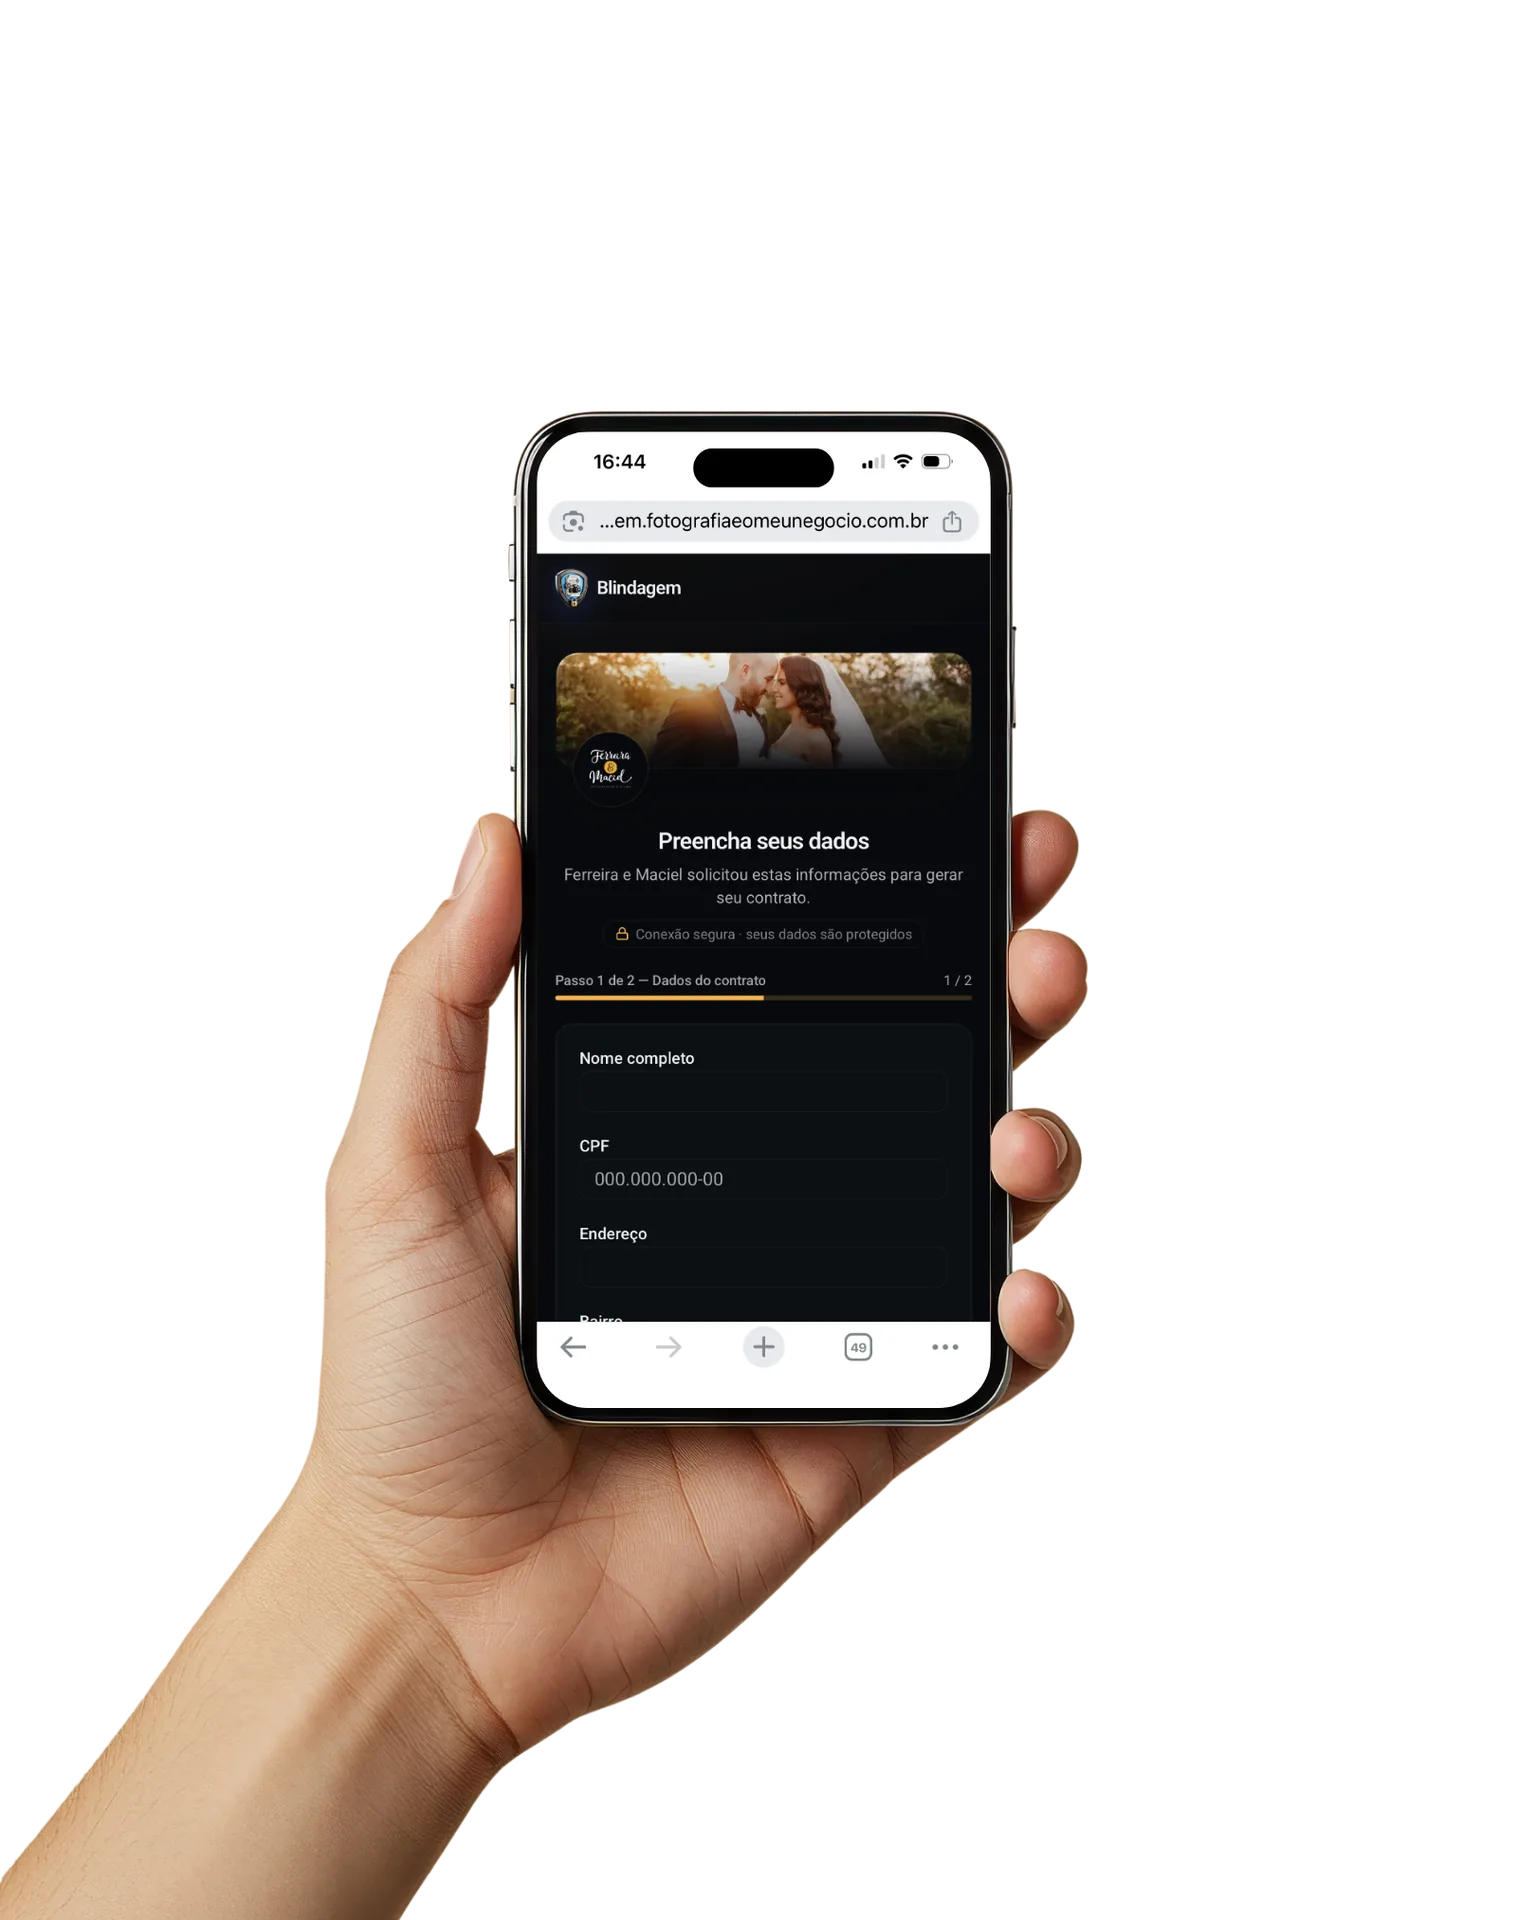
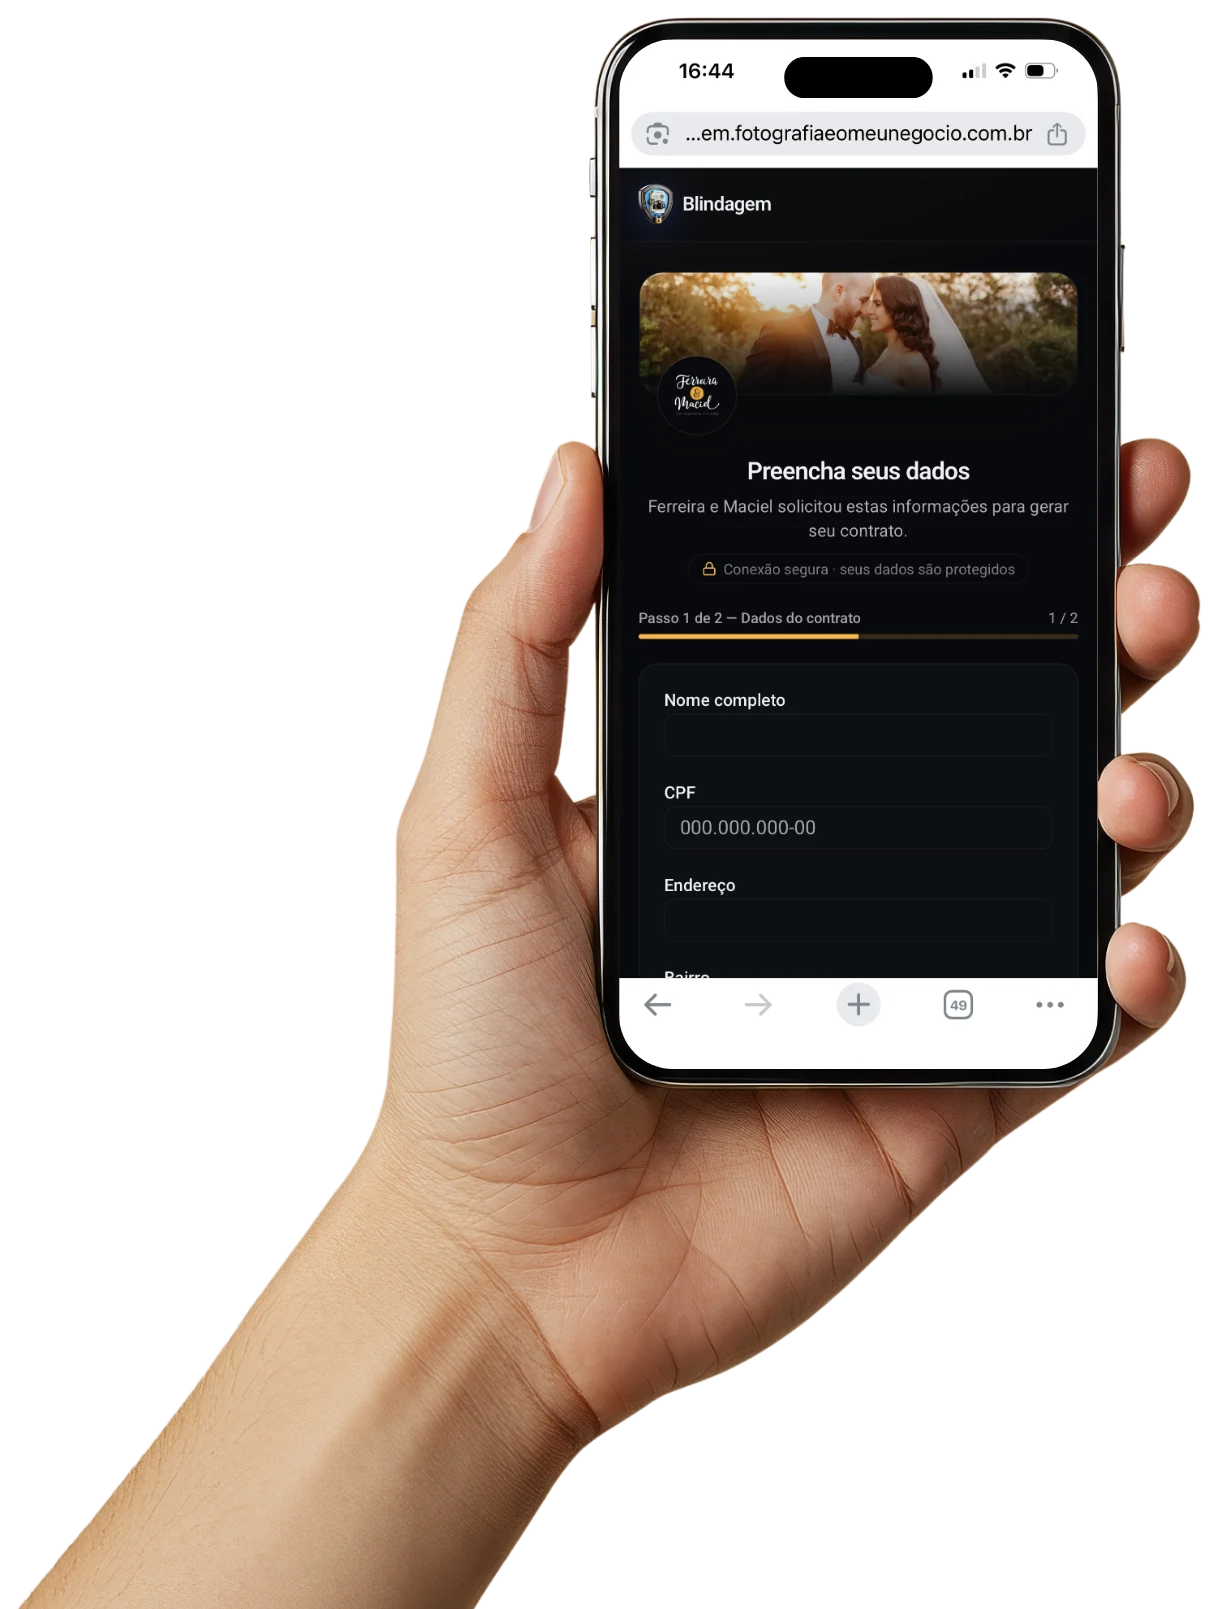
chore(quiz-blindagem): atualiza mockup da mao com celular

diff --git a/quiz-blindagem/index.html b/quiz-blindagem/index.html
@@ -759,7 +759,7 @@ function rPrecheckout(){
     { img:'assets/mockup-app-macbook.webp?v=2', title:'⭐ Geração de Contratos Profissionais', body:'Crie contratos adaptados ao seu nicho em minutos, sem precisar de advogado para cada um.' },
     { img:'assets/mockup-app-celular.webp', pos:'top', title:'⭐ Assinatura Digital com Validade Jurídica', body:'Envie para o cliente assinar digitalmente. Sem papel, sem impressora, sem demora.' },
     { img:'assets/mockup-app-macbook.webp?v=2', title:'⭐ Organização por Cliente e Evento', body:'Todos os contratos centralizados e fáceis de encontrar quando o cliente ligar às 23h.' },
-    { img:'assets/mockup-app-celular-mao.webp', pos:'top', title:'⭐ Acompanhamento de Status em Tempo Real', body:'Saiba quais contratos estão pendentes, assinados ou vencidos, sem precisar ligar pro cliente.' },
+    { img:'assets/mockup-app-celular-mao.webp?v=2', pos:'top', title:'⭐ Acompanhamento de Status em Tempo Real', body:'Saiba quais contratos estão pendentes, assinados ou vencidos, sem precisar ligar pro cliente.' },
   ];
   const rgrid = el('<div class="recebe-grid"></div>');
   recebe.forEach(o => {
@@ -810,7 +810,7 @@ function rPrecheckout(){
   </div>`));
 
   // — preço final + 2º botão
-  stage.appendChild(el(`<img src="assets/mockup-app-celular-mao.webp" alt="" style="width:70%;display:block;margin:0 auto 18px">`));
+  stage.appendChild(el(`<img src="assets/mockup-app-celular-mao.webp?v=2" alt="" style="width:70%;display:block;margin:0 auto 18px">`));
   stage.appendChild(el(`<div class="pco-price"><div style="font-size:11px;text-transform:uppercase;letter-spacing:.08em;color:var(--ink-2);margin-bottom:6px">🔒 Licença anual</div><div style="text-decoration:line-through;color:var(--ink-2);font-size:14px;margin-bottom:4px">R$ 697,00 à vista</div><div class="pco-por" style="font-size:26px;line-height:1.2">Apenas 12x de R$ 41,06</div><div class="pco-px" style="margin-top:8px;font-size:13.5px">ou R$ 397,00 à vista</div></div>`));
   const b2 = el(`<button class="btn" style="margin-bottom:32px">QUERO ME PROTEGER AGORA</button>`);
   b2.onclick = goCheckout;
